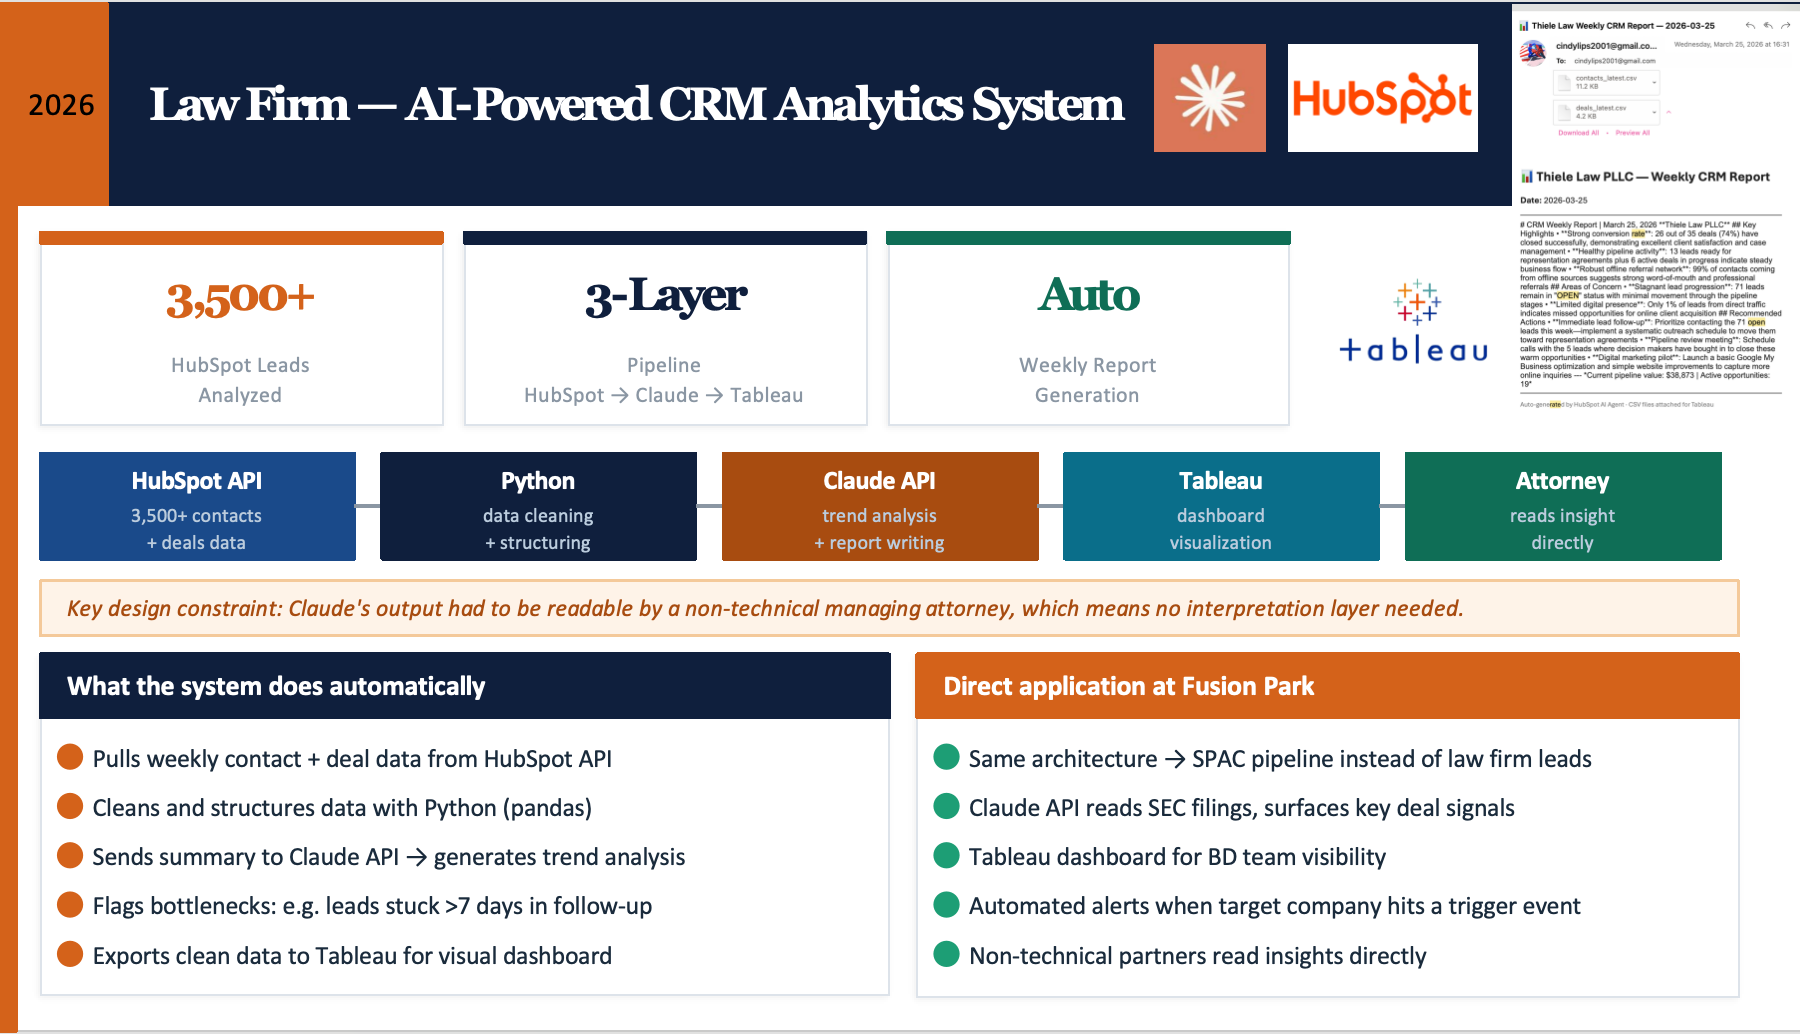
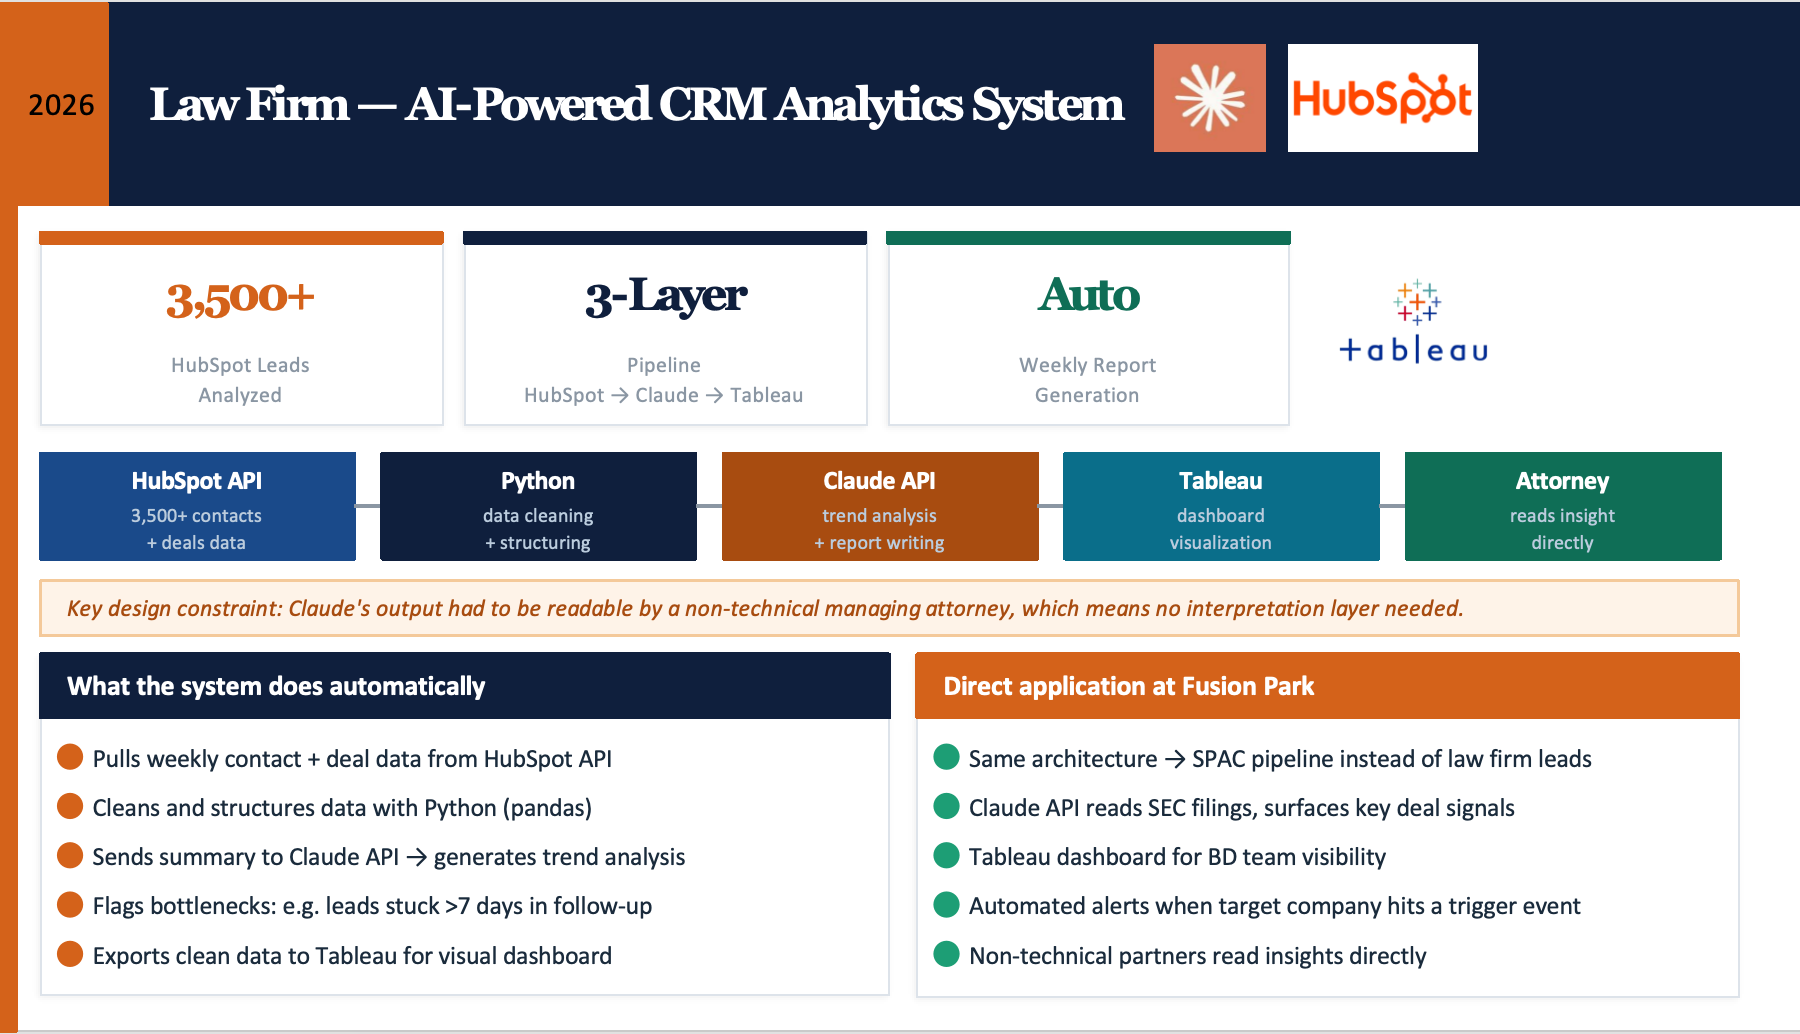
Redact client email panel from CRM cover; drop luminosity tint on 4 color-coded covers

Changed region(s): [[0.84, 0.0, 1.0, 0.4023]]

diff --git a/index.html b/index.html
@@ -2228,7 +2228,7 @@ ReactDOM.createRoot(document.getElementById('experience-timeline-root')).render(
       cta: { label: 'View Live Demo', href: 'meridian/' } },
     { tag: 'NLP / RAG', name: 'Hybrid RAG Pipeline (CMU 11-711)',
       desc: 'BM25 + FAISS hybrid retrieval with Qwen2.5-3B-Instruct, achieving 95% accuracy. Deployed on AWS EC2.',
-      tech: ['Python', 'FAISS', 'HuggingFace', 'AWS'], thumb: '3.png' },
+      tech: ['Python', 'FAISS', 'HuggingFace', 'AWS'], thumb: '3.png', rawThumb: true },
     { tag: 'Energy & Health', name: 'The Changing Landscape of U.S. Power Generation',
       desc: 'Long-form policy analysis paired with an interactive county-level dashboard combining EIA, EPA eGRID, and CDC PLACES data for the energy–health nexus.',
       tech: ['R', 'Posit', 'EIA API', 'eGRID'], thumb: 'US energy & health.jpeg', theme: 'healthcare',
@@ -2242,13 +2242,13 @@ ReactDOM.createRoot(document.getElementById('experience-timeline-root')).render(
       cta: { label: 'View Live Site', href: 'https://fp-web-v5.netlify.app/' } },
     { tag: 'CRM', name: 'AI-Powered CRM Analytics System',
       desc: 'Claude-driven analytics agent over the HubSpot API. Automates weekly extraction, trend analysis and report generation across 3,500+ leads.',
-      tech: ['HubSpot', 'Claude API', 'Tableau'], thumb: '1.png' },
+      tech: ['HubSpot', 'Claude API', 'Tableau'], thumb: '1.png', rawThumb: true },
     { tag: 'Research', name: 'IRCoT Multi-Hop QA',
       desc: 'Reproduced IRCoT baseline on HotpotQA. Debugged BM25 retriever, improved EM from 12.0% to 21.8%.',
-      tech: ['Python', 'BM25', 'HotpotQA'], thumb: 'IRCoT Multi-Hop QA.png' },
+      tech: ['Python', 'BM25', 'HotpotQA'], thumb: 'IRCoT Multi-Hop QA.png', rawThumb: true },
     { tag: 'Sales Analytics', name: 'Health Insurance Enrollment Dashboard',
       desc: 'Interactive HTML/Chart.js sales dashboard tracking 401 leads and 72.8% enrollment rate. Key insight: group chat engagement lifts conversion from 53% to 90%.',
-      tech: ['HTML', 'Chart.js', 'Sales Analytics', 'CRM'], thumb: 'healthcare dashboard.png', theme: 'healthcare',
+      tech: ['HTML', 'Chart.js', 'Sales Analytics', 'CRM'], thumb: 'healthcare dashboard.png', theme: 'healthcare', rawThumb: true,
       cta: { label: 'View Live Demo', href: 'https://soft-moxie-5a3def.netlify.app/' } }
   ];
 
